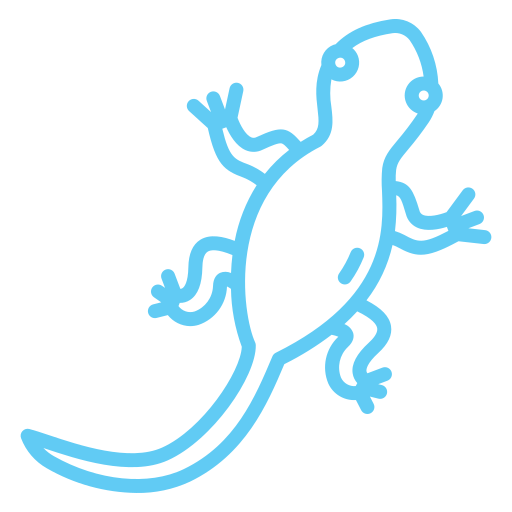
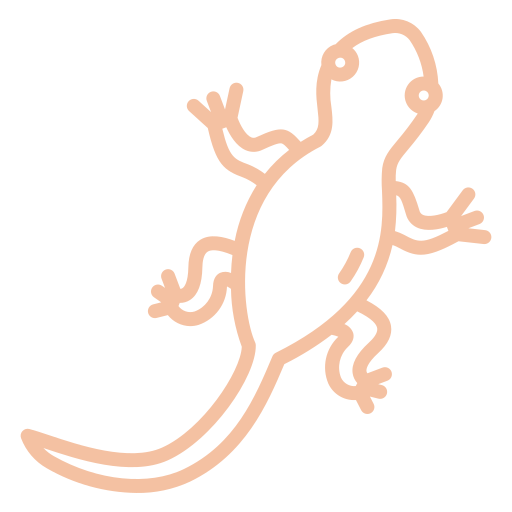
change theming of board animals to be less vibrant

Changed region(s): [[0.0312, 0.0312, 0.9688, 0.9688]]

diff --git a/Sprint2_Game/game_objects/tiles/CaveTile.py b/Sprint2_Game/game_objects/tiles/CaveTile.py
@@ -41,7 +41,7 @@ class CaveTile(Tile):
         animal_x, animal_y = get_coords_for_center_drawing_in_rect(tile_draw_data.get_coordinates(), tile_draw_data.get_size(), (animal_size, animal_size))
 
         instructions.append(DrawAssetInstruction("assets/tiles/cave_tile.png", tile_x, tile_y, tile_draw_data.get_size(), tile_draw_data.get_rotation()))
-        instructions.append(DrawAssetInstruction(f"assets/animals/{self.__animal.value}.png", animal_x, animal_y, (animal_size, animal_size)))
+        instructions.append(DrawAssetInstruction(f"assets/animals/{self.__animal.value}_cave.png", animal_x, animal_y, (animal_size, animal_size)))
         for instruction in self._get_character_draw_instructions():
             instructions.append(instruction)
 
